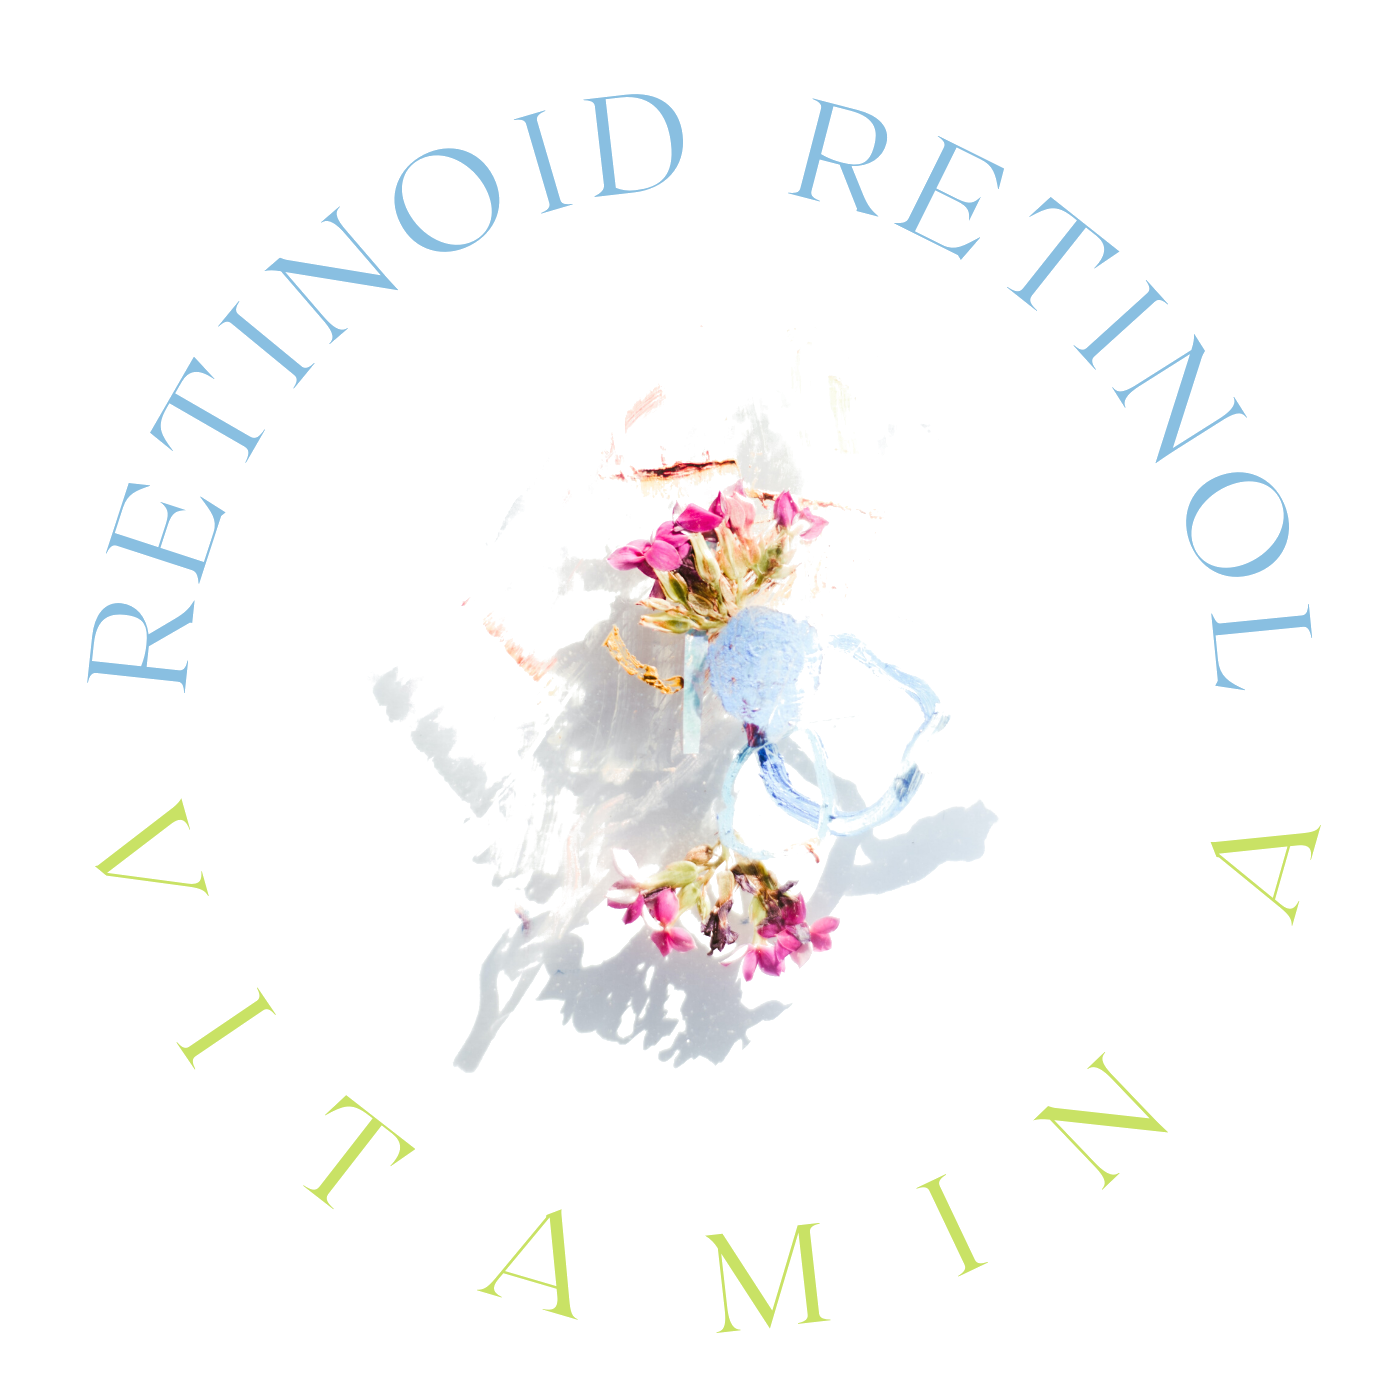
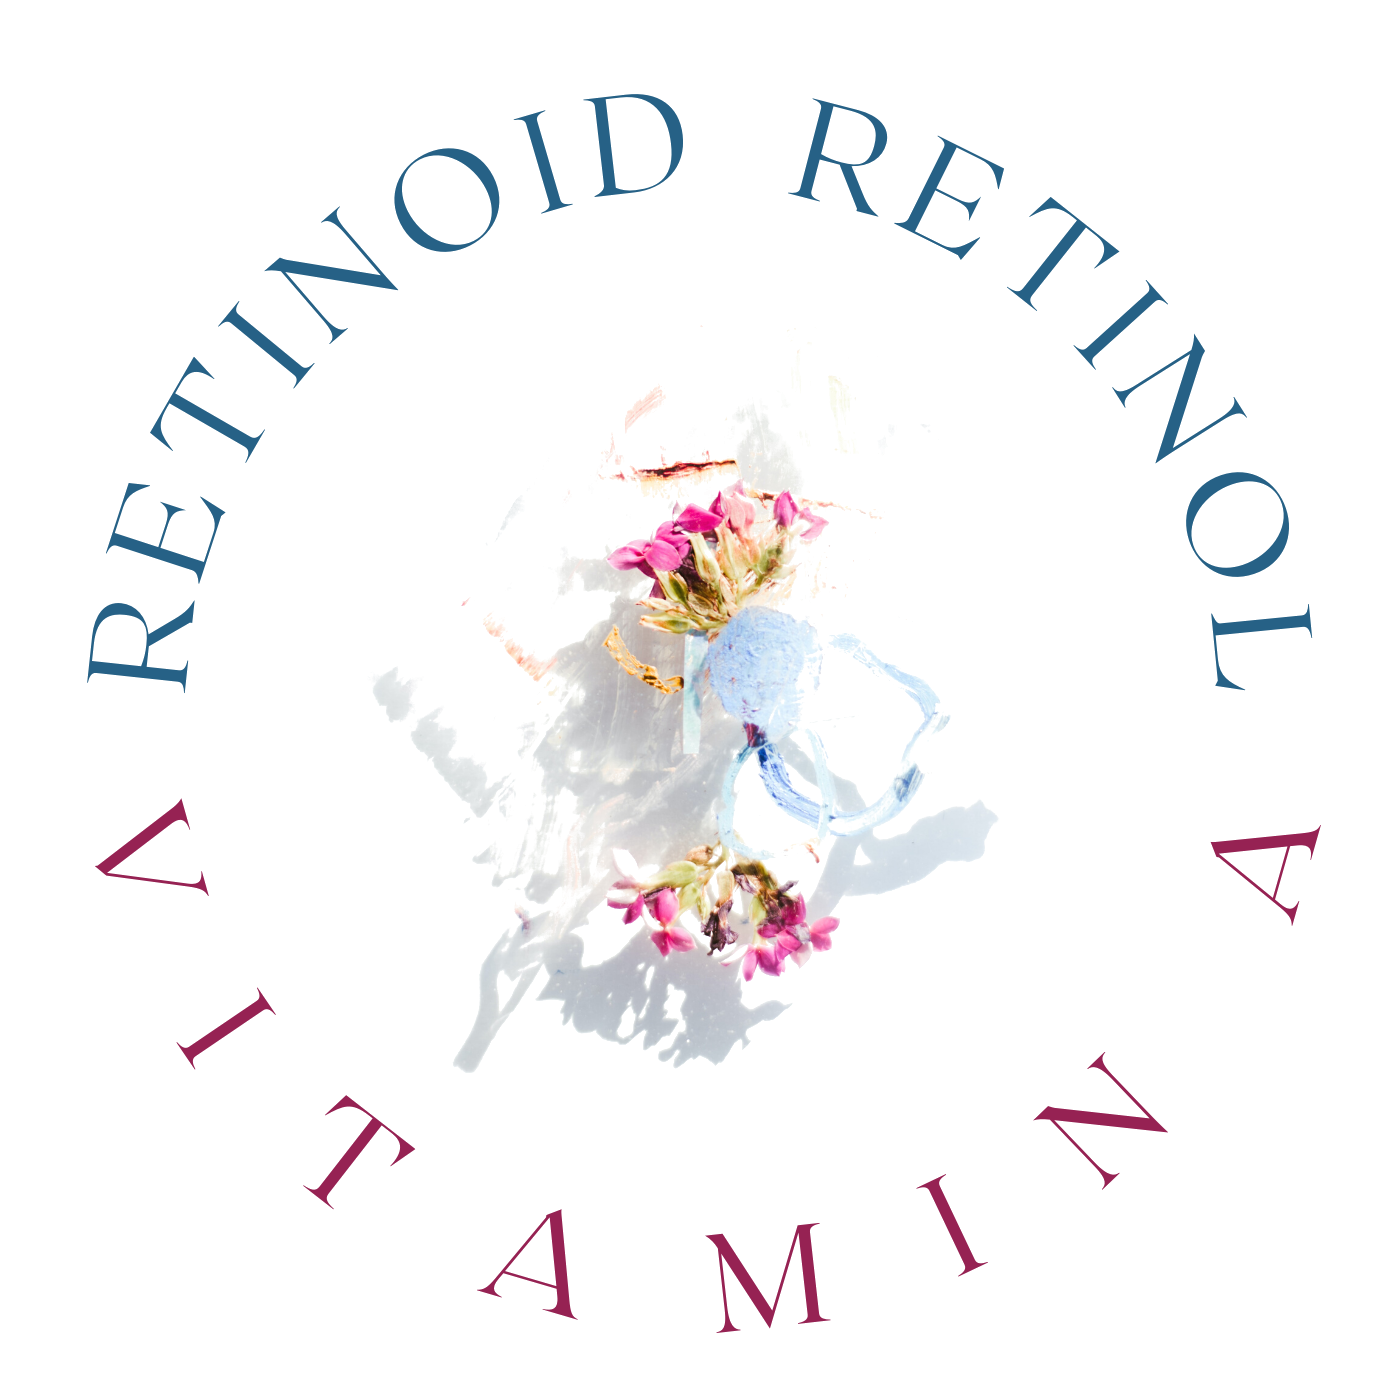
Playing out some designs

diff --git a/src/components/explore/Explore.tsx b/src/components/explore/Explore.tsx
@@ -46,7 +46,7 @@ export default function Explore() {
       </div> 
 
       <div className="pb-16">
-        <h1 className="flex align-middle justify-center text-propolis-400 text-md">
+        <h1 className="flex align-middle justify-center text-royal-600 text-md">
           THE ABCs
         </h1>
         <div className="grid grid-col-1 lg:grid-cols-3 gap-10 px-20 py-20">

diff --git a/src/components/explore/data/ingredients.tsx b/src/components/explore/data/ingredients.tsx
@@ -120,7 +120,7 @@ const A: Ingredient = {
 const B: Ingredient = {
   name: "Niacinamide (Vitamin B)",
   href: "vitaminb",
-  imgUrl: "/assets/img/explore/B.png",
+  imgUrl: "/assets/img/explore/B(1).png",
   imgAlt: "Niacinamide (Vitamin B)",
   description: ["To be added"]
 };
